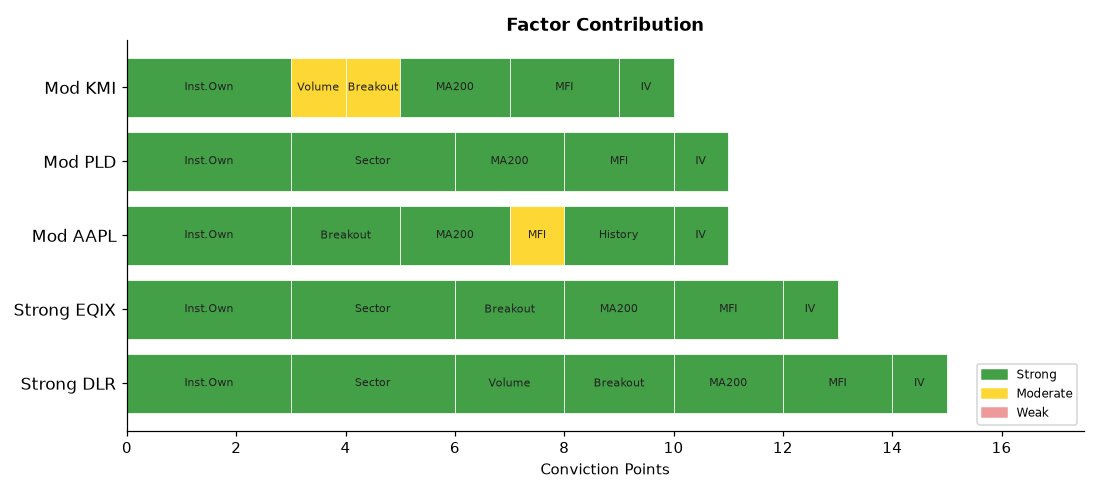
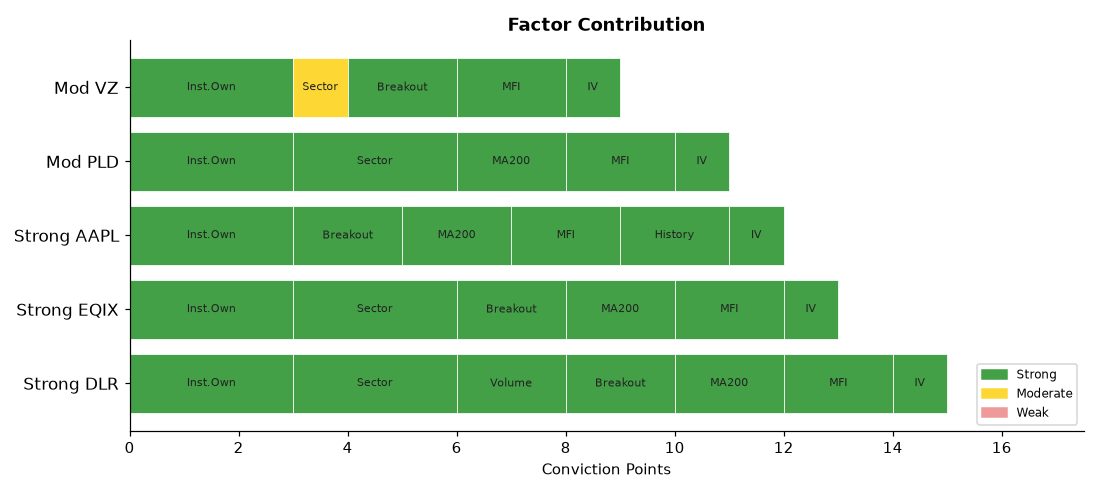
deploy: b7fadf5b06deb90e7ebb92f278722414bdd9750d

diff --git a/index.html b/index.html
@@ -4,7 +4,7 @@
   <meta charset="UTF-8">
   <meta name="viewport" content="width=device-width,initial-scale=1">
   <meta http-equiv="Cache-Control" content="no-cache,no-store,must-revalidate">
-  <title>Stock Breakout Screener — 2026-07-24 15:54</title>
+  <title>Stock Breakout Screener — 2026-07-24 18:23</title>
   <style>
     *{box-sizing:border-box;margin:0;padding:0}
     body{font-family:'Segoe UI',Arial,sans-serif;background:#f0f2f5;
@@ -34,7 +34,7 @@
 
 <div class="hdr">
   <h1>📈 Stock Breakout Screener</h1>
-  <p>Updated: 2026-07-24 15:54 UTC &nbsp;·&nbsp; Phase: Regular Market Hours &nbsp;·&nbsp;
+  <p>Updated: 2026-07-24 18:23 UTC &nbsp;·&nbsp; Phase: Regular Market Hours &nbsp;·&nbsp;
      129 stocks screened &nbsp;·&nbsp; Top 5 by conviction score</p>
 </div>
 
@@ -69,7 +69,7 @@
             </span>
           </div>
           <ul style="margin:0;padding-left:18px;font-size:13px;
-                     color:#333;line-height:1.8"><li style="margin:5px 0"><span style="background:#e8f5e9;color:#2e7d32;padding:2px 7px;border-radius:4px;font-size:11px;">✅</span> Volume: <b>2.4× average</b> — 🔥 Strong unusual activity</li><li style="margin:5px 0"><span style="background:#e8f5e9;color:#2e7d32;padding:2px 7px;border-radius:4px;font-size:11px;">✅</span> Candle: close <b>$206.59</b> vs open <b>$190.00</b> (+8.7%) — regular market close</li><li style="margin:5px 0"><span style="background:#e8f5e9;color:#2e7d32;padding:2px 7px;border-radius:4px;font-size:11px;">✅</span> 200-Day MA: price <b>$206.59</b> vs MA <b>$182.40</b> — <b>✅ Above</b> long-term trend</li><li style="margin:5px 0"><span style="background:#e8f5e9;color:#2e7d32;padding:2px 7px;border-radius:4px;font-size:11px;">✅</span> Inst. ownership: <b>98.6%</b> · MFI: <b>75.3</b> · Market cap: <b>$77.7B</b></li></ul>
+                     color:#333;line-height:1.8"><li style="margin:5px 0"><span style="background:#e8f5e9;color:#2e7d32;padding:2px 7px;border-radius:4px;font-size:11px;">✅</span> Volume: <b>3.2× average</b> — 🔥 Strong unusual activity</li><li style="margin:5px 0"><span style="background:#e8f5e9;color:#2e7d32;padding:2px 7px;border-radius:4px;font-size:11px;">✅</span> Candle: close <b>$202.71</b> vs open <b>$190.00</b> (+6.7%) — regular market close</li><li style="margin:5px 0"><span style="background:#e8f5e9;color:#2e7d32;padding:2px 7px;border-radius:4px;font-size:11px;">✅</span> 200-Day MA: price <b>$202.71</b> vs MA <b>$182.37</b> — <b>✅ Above</b> long-term trend</li><li style="margin:5px 0"><span style="background:#e8f5e9;color:#2e7d32;padding:2px 7px;border-radius:4px;font-size:11px;">✅</span> Inst. ownership: <b>98.6%</b> · MFI: <b>76.7</b> · Market cap: <b>$76.2B</b></li></ul>
         </div>
         <div style="background:#fff;border:1px solid #ddd;border-radius:10px;
                     padding:16px 20px;margin-bottom:12px;
@@ -86,24 +86,24 @@
             </span>
           </div>
           <ul style="margin:0;padding-left:18px;font-size:13px;
-                     color:#333;line-height:1.8"><li style="margin:5px 0"><span style="background:#ffebee;color:#b71c1c;padding:2px 7px;border-radius:4px;font-size:11px;">❌</span> Volume: <b>0.5× average</b> — Above-average activity</li><li style="margin:5px 0"><span style="background:#e8f5e9;color:#2e7d32;padding:2px 7px;border-radius:4px;font-size:11px;">✅</span> Candle: close <b>$1098.00</b> vs open <b>$1059.37</b> (+3.6%) — regular market close</li><li style="margin:5px 0"><span style="background:#e8f5e9;color:#2e7d32;padding:2px 7px;border-radius:4px;font-size:11px;">✅</span> 200-Day MA: price <b>$1098.00</b> vs MA <b>$1005.92</b> — <b>✅ Above</b> long-term trend</li><li style="margin:5px 0"><span style="background:#e8f5e9;color:#2e7d32;padding:2px 7px;border-radius:4px;font-size:11px;">✅</span> Inst. ownership: <b>100.2%</b> · MFI: <b>71.1</b> · Market cap: <b>$108.3B</b></li></ul>
+                     color:#333;line-height:1.8"><li style="margin:5px 0"><span style="background:#ffebee;color:#b71c1c;padding:2px 7px;border-radius:4px;font-size:11px;">❌</span> Volume: <b>0.8× average</b> — Above-average activity</li><li style="margin:5px 0"><span style="background:#e8f5e9;color:#2e7d32;padding:2px 7px;border-radius:4px;font-size:11px;">✅</span> Candle: close <b>$1096.27</b> vs open <b>$1059.37</b> (+3.5%) — regular market close</li><li style="margin:5px 0"><span style="background:#e8f5e9;color:#2e7d32;padding:2px 7px;border-radius:4px;font-size:11px;">✅</span> 200-Day MA: price <b>$1096.27</b> vs MA <b>$1005.90</b> — <b>✅ Above</b> long-term trend</li><li style="margin:5px 0"><span style="background:#e8f5e9;color:#2e7d32;padding:2px 7px;border-radius:4px;font-size:11px;">✅</span> Inst. ownership: <b>100.2%</b> · MFI: <b>72.0</b> · Market cap: <b>$108.1B</b></li></ul>
         </div>
         <div style="background:#fff;border:1px solid #ddd;border-radius:10px;
                     padding:16px 20px;margin-bottom:12px;
                     box-shadow:0 2px 6px rgba(0,0,0,.07)">
           <div style="display:flex;align-items:center;gap:10px;
                       flex-wrap:wrap;margin-bottom:10px">
-            <span style="font-size:22px">🟡</span>
+            <span style="font-size:22px">🟢</span>
             <span style="font-size:19px;font-weight:700">3. AAPL</span>
             <span style="font-size:12px;color:#666">Technology</span>
             <span style="margin-left:auto;background:#1a237e;color:#fff;
                          padding:3px 12px;border-radius:12px;
                          font-size:13px;font-weight:600">
-              11/17
+              12/17
             </span>
           </div>
           <ul style="margin:0;padding-left:18px;font-size:13px;
-                     color:#333;line-height:1.8"><li style="margin:5px 0"><span style="background:#ffebee;color:#b71c1c;padding:2px 7px;border-radius:4px;font-size:11px;">❌</span> Volume: <b>0.3× average</b> — Above-average activity</li><li style="margin:5px 0"><span style="background:#e8f5e9;color:#2e7d32;padding:2px 7px;border-radius:4px;font-size:11px;">✅</span> Candle: close <b>$333.45</b> vs open <b>$322.04</b> (+3.5%) — regular market close</li><li style="margin:5px 0"><span style="background:#e8f5e9;color:#2e7d32;padding:2px 7px;border-radius:4px;font-size:11px;">✅</span> 200-Day MA: price <b>$333.45</b> vs MA <b>$281.26</b> — <b>✅ Above</b> long-term trend</li><li style="margin:5px 0"><span style="background:#e8f5e9;color:#2e7d32;padding:2px 7px;border-radius:4px;font-size:11px;">✅</span> Inst. ownership: <b>66.5%</b> · MFI: <b>59.8</b> · Market cap: <b>$4898.7B</b></li><li style="margin:5px 0"><span style="background:#e8f5e9;color:#2e7d32;padding:2px 7px;border-radius:4px;font-size:11px;">✅</span> Last similar breakout: <b>Jun 26, 2026</b> → <b>+11.8%</b> over 10 trading days</li></ul>
+                     color:#333;line-height:1.8"><li style="margin:5px 0"><span style="background:#ffebee;color:#b71c1c;padding:2px 7px;border-radius:4px;font-size:11px;">❌</span> Volume: <b>0.6× average</b> — Above-average activity</li><li style="margin:5px 0"><span style="background:#e8f5e9;color:#2e7d32;padding:2px 7px;border-radius:4px;font-size:11px;">✅</span> Candle: close <b>$332.39</b> vs open <b>$322.04</b> (+3.2%) — regular market close</li><li style="margin:5px 0"><span style="background:#e8f5e9;color:#2e7d32;padding:2px 7px;border-radius:4px;font-size:11px;">✅</span> 200-Day MA: price <b>$332.39</b> vs MA <b>$281.25</b> — <b>✅ Above</b> long-term trend</li><li style="margin:5px 0"><span style="background:#e8f5e9;color:#2e7d32;padding:2px 7px;border-radius:4px;font-size:11px;">✅</span> Inst. ownership: <b>66.5%</b> · MFI: <b>60.4</b> · Market cap: <b>$4882.2B</b></li><li style="margin:5px 0"><span style="background:#e8f5e9;color:#2e7d32;padding:2px 7px;border-radius:4px;font-size:11px;">✅</span> Last similar breakout: <b>Jun 26, 2026</b> → <b>+11.8%</b> over 10 trading days</li></ul>
         </div>
         <div style="background:#fff;border:1px solid #ddd;border-radius:10px;
                     padding:16px 20px;margin-bottom:12px;
@@ -120,7 +120,7 @@
             </span>
           </div>
           <ul style="margin:0;padding-left:18px;font-size:13px;
-                     color:#333;line-height:1.8"><li style="margin:5px 0"><span style="background:#ffebee;color:#b71c1c;padding:2px 7px;border-radius:4px;font-size:11px;">❌</span> Volume: <b>0.7× average</b> — Above-average activity</li><li style="margin:5px 0"><span style="background:#ffebee;color:#b71c1c;padding:2px 7px;border-radius:4px;font-size:11px;">❌</span> Candle: close <b>$147.52</b> vs open <b>$145.10</b> (+1.7%) — regular market close</li><li style="margin:5px 0"><span style="background:#e8f5e9;color:#2e7d32;padding:2px 7px;border-radius:4px;font-size:11px;">✅</span> 200-Day MA: price <b>$147.52</b> vs MA <b>$138.46</b> — <b>✅ Above</b> long-term trend</li><li style="margin:5px 0"><span style="background:#e8f5e9;color:#2e7d32;padding:2px 7px;border-radius:4px;font-size:11px;">✅</span> Inst. ownership: <b>98.1%</b> · MFI: <b>60.2</b> · Market cap: <b>$140.7B</b></li></ul>
+                     color:#333;line-height:1.8"><li style="margin:5px 0"><span style="background:#ffebee;color:#b71c1c;padding:2px 7px;border-radius:4px;font-size:11px;">❌</span> Volume: <b>1.0× average</b> — Above-average activity</li><li style="margin:5px 0"><span style="background:#ffebee;color:#b71c1c;padding:2px 7px;border-radius:4px;font-size:11px;">❌</span> Candle: close <b>$148.05</b> vs open <b>$145.10</b> (+2.0%) — regular market close</li><li style="margin:5px 0"><span style="background:#e8f5e9;color:#2e7d32;padding:2px 7px;border-radius:4px;font-size:11px;">✅</span> 200-Day MA: price <b>$148.05</b> vs MA <b>$138.47</b> — <b>✅ Above</b> long-term trend</li><li style="margin:5px 0"><span style="background:#e8f5e9;color:#2e7d32;padding:2px 7px;border-radius:4px;font-size:11px;">✅</span> Inst. ownership: <b>98.1%</b> · MFI: <b>60.8</b> · Market cap: <b>$141.3B</b></li></ul>
         </div>
         <div style="background:#fff;border:1px solid #ddd;border-radius:10px;
                     padding:16px 20px;margin-bottom:12px;
@@ -128,16 +128,16 @@
           <div style="display:flex;align-items:center;gap:10px;
                       flex-wrap:wrap;margin-bottom:10px">
             <span style="font-size:22px">🟡</span>
-            <span style="font-size:19px;font-weight:700">5. KMI</span>
-            <span style="font-size:12px;color:#666">Energy</span>
+            <span style="font-size:19px;font-weight:700">5. VZ</span>
+            <span style="font-size:12px;color:#666">Comm. Services</span>
             <span style="margin-left:auto;background:#1a237e;color:#fff;
                          padding:3px 12px;border-radius:12px;
                          font-size:13px;font-weight:600">
-              10/17
+              9/17
             </span>
           </div>
           <ul style="margin:0;padding-left:18px;font-size:13px;
-                     color:#333;line-height:1.8"><li style="margin:5px 0"><span style="background:#fffde7;color:#f57f17;padding:2px 7px;border-radius:4px;font-size:11px;">⚠</span> Volume: <b>1.7× average</b> — Above-average activity</li><li style="margin:5px 0"><span style="background:#fffde7;color:#f57f17;padding:2px 7px;border-radius:4px;font-size:11px;">⚠</span> Candle: close <b>$32.77</b> vs open <b>$33.00</b> (-0.7%) — regular market close</li><li style="margin:5px 0"><span style="background:#e8f5e9;color:#2e7d32;padding:2px 7px;border-radius:4px;font-size:11px;">✅</span> 200-Day MA: price <b>$32.77</b> vs MA <b>$32.13</b> — <b>✅ Above</b> long-term trend</li><li style="margin:5px 0"><span style="background:#e8f5e9;color:#2e7d32;padding:2px 7px;border-radius:4px;font-size:11px;">✅</span> Inst. ownership: <b>71.0%</b> · MFI: <b>72.0</b> · Market cap: <b>$72.9B</b></li></ul>
+                     color:#333;line-height:1.8"><li style="margin:5px 0"><span style="background:#ffebee;color:#b71c1c;padding:2px 7px;border-radius:4px;font-size:11px;">❌</span> Volume: <b>0.8× average</b> — Above-average activity</li><li style="margin:5px 0"><span style="background:#e8f5e9;color:#2e7d32;padding:2px 7px;border-radius:4px;font-size:11px;">✅</span> Candle: close <b>$45.76</b> vs open <b>$44.08</b> (+3.8%) — regular market close</li><li style="margin:5px 0"><span style="background:#ffebee;color:#b71c1c;padding:2px 7px;border-radius:4px;font-size:11px;">❌</span> 200-Day MA: price <b>$45.76</b> vs MA <b>$45.96</b> — <b>❌ Below</b> long-term trend</li><li style="margin:5px 0"><span style="background:#e8f5e9;color:#2e7d32;padding:2px 7px;border-radius:4px;font-size:11px;">✅</span> Inst. ownership: <b>70.4%</b> · MFI: <b>66.9</b> · Market cap: <b>$191.1B</b></li></ul>
         </div>
 
 
@@ -169,17 +169,17 @@
         <tr>
           <td style="font-weight:700;text-align:left;padding-left:10px">
             🟢 DLR</td>
-          <td style="background:#c8e6c9">2.4×</td>
-          <td style="background:#c8e6c9">+8.7%</td>
+          <td style="background:#c8e6c9">3.2×</td>
+          <td style="background:#c8e6c9">+6.7%</td>
           <td style="background:#c8e6c9">
             ▲ Above</td>
           <td style="background:#c8e6c9">
             98.6%</td>
           <td style="background:#c8e6c9">
-            75.3</td>
+            76.7</td>
           <td style="background:#c8e6c9">Real Estate</td>
           <td style="background:#c8e6c9">
-            244.2%</td>
+            265.0%</td>
           <td style="background:#ffcdd2">
             N/A</td>
           <td style="font-weight:800;font-size:15px">15/17</td>
@@ -187,74 +187,74 @@
         <tr>
           <td style="font-weight:700;text-align:left;padding-left:10px">
             🟢 EQIX</td>
-          <td style="background:#ffcdd2">0.5×</td>
-          <td style="background:#c8e6c9">+3.6%</td>
+          <td style="background:#ffcdd2">0.8×</td>
+          <td style="background:#c8e6c9">+3.5%</td>
           <td style="background:#c8e6c9">
             ▲ Above</td>
           <td style="background:#c8e6c9">
             100.2%</td>
           <td style="background:#c8e6c9">
-            71.1</td>
+            72.0</td>
           <td style="background:#c8e6c9">Real Estate</td>
           <td style="background:#c8e6c9">
-            38.7%</td>
+            39.5%</td>
           <td style="background:#ffcdd2">
             N/A</td>
           <td style="font-weight:800;font-size:15px">13/17</td>
         </tr>
         <tr>
           <td style="font-weight:700;text-align:left;padding-left:10px">
-            🟡 AAPL</td>
-          <td style="background:#ffcdd2">0.3×</td>
-          <td style="background:#c8e6c9">+3.5%</td>
+            🟢 AAPL</td>
+          <td style="background:#ffcdd2">0.6×</td>
+          <td style="background:#c8e6c9">+3.2%</td>
           <td style="background:#c8e6c9">
             ▲ Above</td>
           <td style="background:#c8e6c9">
             66.5%</td>
-          <td style="background:#fff9c4">
-            59.8</td>
+          <td style="background:#c8e6c9">
+            60.4</td>
           <td style="background:#ffcdd2">Technology</td>
           <td style="background:#c8e6c9">
-            29.8%</td>
+            279.0%</td>
           <td style="background:#c8e6c9">
             +11.8%</td>
-          <td style="font-weight:800;font-size:15px">11/17</td>
+          <td style="font-weight:800;font-size:15px">12/17</td>
         </tr>
         <tr>
           <td style="font-weight:700;text-align:left;padding-left:10px">
             🟡 PLD</td>
-          <td style="background:#ffcdd2">0.7×</td>
-          <td style="background:#ffcdd2">+1.7%</td>
+          <td style="background:#ffcdd2">1.0×</td>
+          <td style="background:#ffcdd2">+2.0%</td>
           <td style="background:#c8e6c9">
             ▲ Above</td>
           <td style="background:#c8e6c9">
             98.1%</td>
           <td style="background:#c8e6c9">
-            60.2</td>
+            60.8</td>
           <td style="background:#c8e6c9">Real Estate</td>
           <td style="background:#c8e6c9">
-            36.8%</td>
+            35.7%</td>
           <td style="background:#ffcdd2">
             N/A</td>
           <td style="font-weight:800;font-size:15px">11/17</td>
         </tr>
         <tr>
           <td style="font-weight:700;text-align:left;padding-left:10px">
-            🟡 KMI</td>
-          <td style="background:#fff9c4">1.7×</td>
-          <td style="background:#fff9c4">-0.7%</td>
+            🟡 VZ</td>
+          <td style="background:#ffcdd2">0.8×</td>
+          <td style="background:#c8e6c9">+3.8%</td>
+          <td style="background:#ffcdd2">
+            ▼ Below</td>
           <td style="background:#c8e6c9">
-            ▲ Above</td>
+            70.4%</td>
           <td style="background:#c8e6c9">
-            71.0%</td>
+            66.9</td>
+          <td style="background:#fff9c4">Comm. Services</td>
           <td style="background:#c8e6c9">
-            72.0</td>
-          <td style="background:#ffcdd2">Energy</td>
-          <td style="background:#c8e6c9">
-            203.0%</td>
+            134.5%</td>
           <td style="background:#ffcdd2">
             N/A</td>
-          <td style="font-weight:800;font-size:15px">10/17</td>
+          <td style="font-weight:800;font-size:15px">9/17</td>
         </tr>
 </table>
 </div>
@@ -278,57 +278,57 @@
         <tr>
           <td style="text-align:left;padding-left:10px;font-weight:600">
             #1 Real Estate</td>
-          <td style="background:#e8f5e9;color:#2e7d32;font-weight:700">+2.44%</td>
+          <td style="background:#e8f5e9;color:#2e7d32;font-weight:700">+2.35%</td>
         </tr>
         <tr>
           <td style="text-align:left;padding-left:10px;font-weight:600">
             #2 Materials</td>
-          <td style="background:#e8f5e9;color:#2e7d32;font-weight:700">+1.15%</td>
+          <td style="background:#e8f5e9;color:#2e7d32;font-weight:700">+1.67%</td>
         </tr>
         <tr>
           <td style="text-align:left;padding-left:10px;font-weight:600">
-            #3 Consumer Stpl</td>
-          <td style="background:#e8f5e9;color:#2e7d32;font-weight:700">+1.09%</td>
+            #3 Comm. Services</td>
+          <td style="background:#e8f5e9;color:#2e7d32;font-weight:700">+1.28%</td>
         </tr>
         <tr>
           <td style="text-align:left;padding-left:10px;font-weight:600">
-            #4 Comm. Services</td>
-          <td style="background:#e8f5e9;color:#2e7d32;font-weight:700">+1.09%</td>
+            #4 Consumer Stpl</td>
+          <td style="background:#e8f5e9;color:#2e7d32;font-weight:700">+0.94%</td>
         </tr>
         <tr>
           <td style="text-align:left;padding-left:10px;font-weight:600">
-            #5 Industrials</td>
-          <td style="background:#e8f5e9;color:#2e7d32;font-weight:700">+0.95%</td>
+            #5 Energy</td>
+          <td style="background:#e8f5e9;color:#2e7d32;font-weight:700">+0.63%</td>
         </tr>
         <tr>
           <td style="text-align:left;padding-left:10px;font-weight:600">
-            #6 Healthcare</td>
-          <td style="background:#e8f5e9;color:#2e7d32;font-weight:700">+0.91%</td>
+            #6 Financials</td>
+          <td style="background:#e8f5e9;color:#2e7d32;font-weight:700">+0.60%</td>
         </tr>
         <tr>
           <td style="text-align:left;padding-left:10px;font-weight:600">
-            #7 Consumer Disc</td>
-          <td style="background:#e8f5e9;color:#2e7d32;font-weight:700">+0.73%</td>
+            #7 Healthcare</td>
+          <td style="background:#e8f5e9;color:#2e7d32;font-weight:700">+0.56%</td>
         </tr>
         <tr>
           <td style="text-align:left;padding-left:10px;font-weight:600">
-            #8 Financials</td>
-          <td style="background:#e8f5e9;color:#2e7d32;font-weight:700">+0.72%</td>
+            #8 Industrials</td>
+          <td style="background:#e8f5e9;color:#2e7d32;font-weight:700">+0.49%</td>
         </tr>
         <tr>
           <td style="text-align:left;padding-left:10px;font-weight:600">
-            #9 Utilities</td>
-          <td style="background:#e8f5e9;color:#2e7d32;font-weight:700">+0.50%</td>
+            #9 Consumer Disc</td>
+          <td style="background:#e8f5e9;color:#2e7d32;font-weight:700">+0.37%</td>
         </tr>
         <tr>
           <td style="text-align:left;padding-left:10px;font-weight:600">
-            #10 Energy</td>
-          <td style="background:#e8f5e9;color:#2e7d32;font-weight:700">+0.48%</td>
+            #10 Utilities</td>
+          <td style="background:#ffebee;color:#c62828;font-weight:700">-0.01%</td>
         </tr>
         <tr>
           <td style="text-align:left;padding-left:10px;font-weight:600">
             #11 Technology</td>
-          <td style="background:#ffebee;color:#c62828;font-weight:700">-0.22%</td>
+          <td style="background:#ffebee;color:#c62828;font-weight:700">-0.96%</td>
         </tr>
     </table>
   </div>
@@ -367,7 +367,7 @@
         <li><b>Scoring weights:</b>
             Inst.Own(3) · Sector(3) · Volume(2) · Breakout(2) ·
             MA200(2) · MFI(2) · History(2) · IV(1) = 17pts max</li>
-        <li><b>Run time:</b> 2026-07-24 15:54 UTC — Market phase: Regular Market Hours</li>
+        <li><b>Run time:</b> 2026-07-24 18:23 UTC — Market phase: Regular Market Hours</li>
       </ul>
     </div>
 
